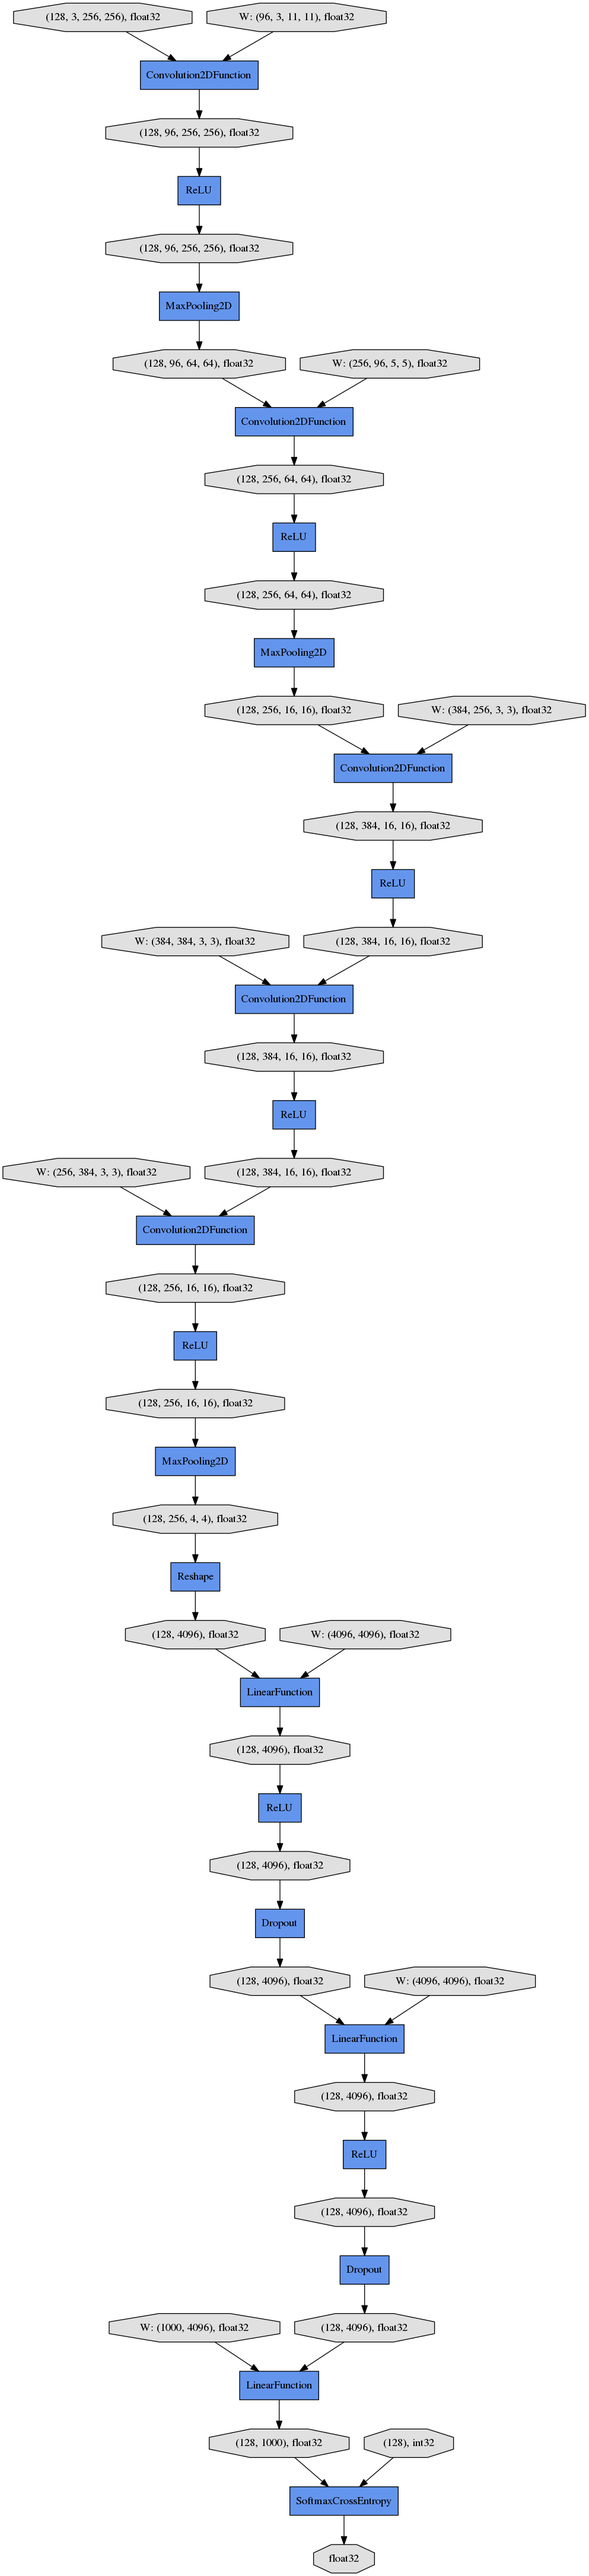
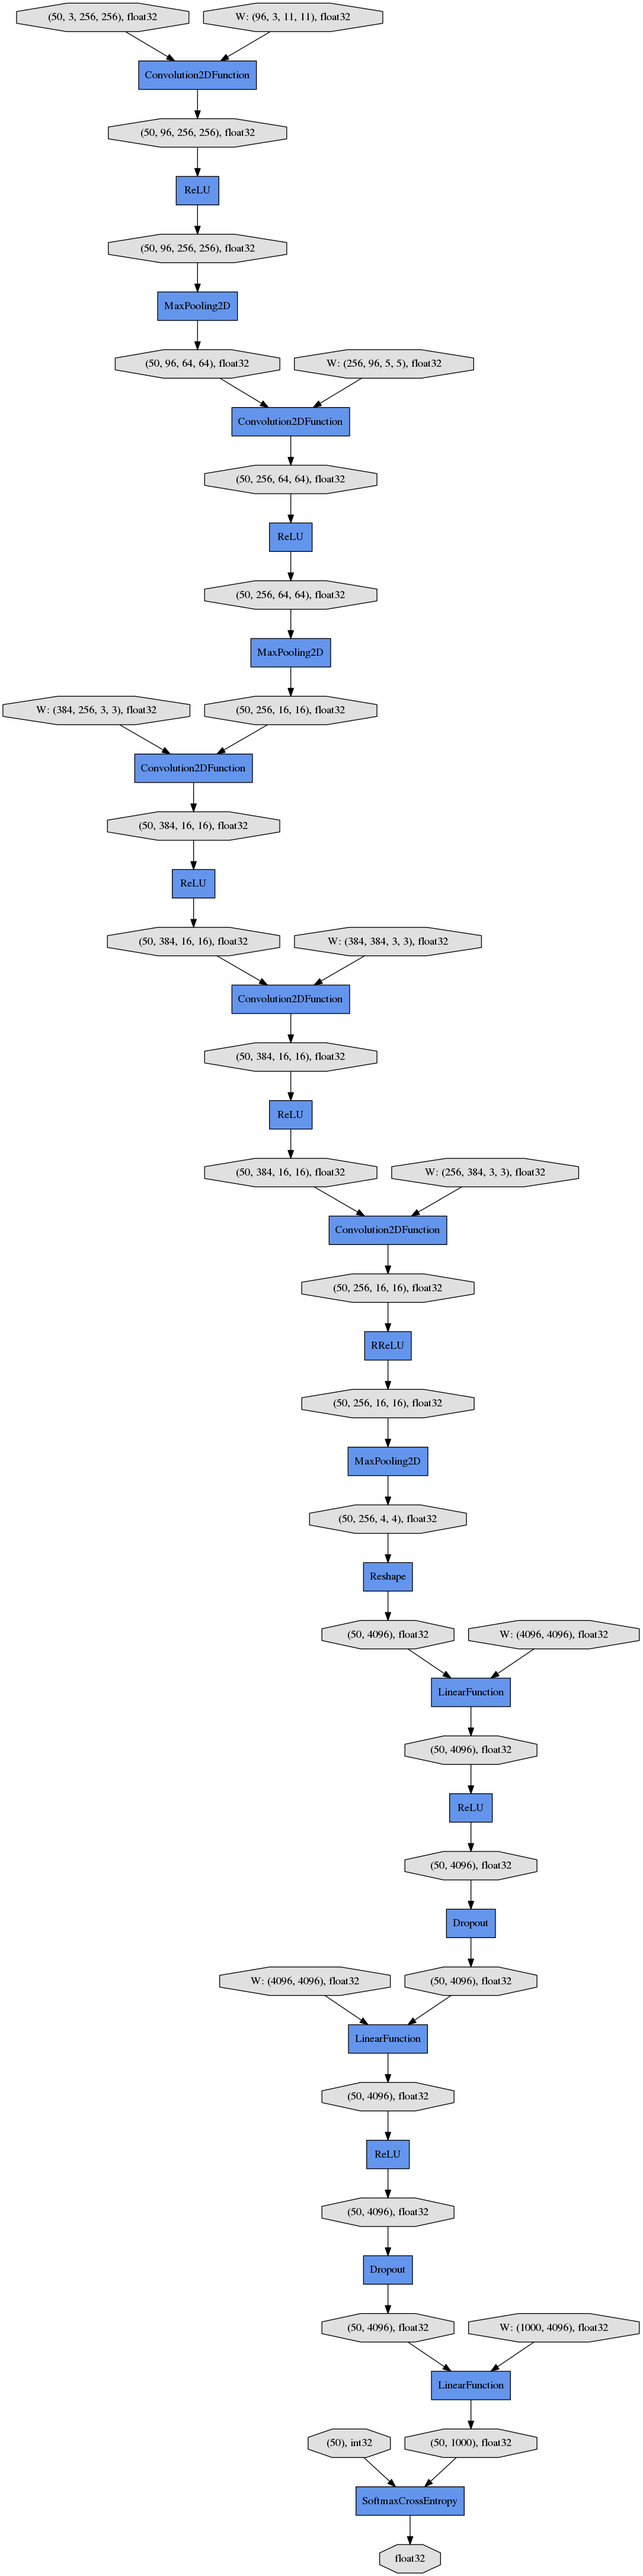
verification run results

Changed region(s): [[0.0, 0.0, 0.999, 1.0], [0.6556, 0.1244, 0.8117, 0.1555], [0.5307, 0.0, 0.6556, 0.0311]]

diff --git a/sequential/train_imagenet.py b/sequential/train_imagenet.py
@@ -23,7 +23,7 @@ matplotlib.use('Agg')
 # Global Variables
 numpy.set_printoptions(threshold=sys.maxsize)
 
-TRAIN = "/groups2/gaa50004/data/ILSVRC2012/train_256x256/1_image_train.txt"
+TRAIN = "/groups2/gaa50004/data/ILSVRC2012/train_256x256/50_image_train.txt"
 VAL = "/groups2/gaa50004/data/ILSVRC2012/val_256x256/val.txt"
 TRAINING_ROOT = "/groups2/gaa50004/data/ILSVRC2012/train_256x256/"
 VALIDATION_ROOT = "/groups2/gaa50004/data/ILSVRC2012/val_256x256"

diff --git a/spatial/train_imagenet.py b/spatial/train_imagenet.py
@@ -25,7 +25,7 @@ from models.resnet50 import ResNet50
 numpy.set_printoptions(threshold=sys.maxsize)
 
 #
-TRAIN = "/groups2/gaa50004/data/ILSVRC2012/train_256x256/1_image_train.txt"
+TRAIN = "/groups2/gaa50004/data/ILSVRC2012/train_256x256/50_image_train.txt"
 VAL = "/groups2/gaa50004/data/ILSVRC2012/val_256x256/val.txt"
 TRAINING_ROOT = "/groups2/gaa50004/data/ILSVRC2012/train_256x256/"
 VALIDATION_ROOT = "/groups2/gaa50004/data/ILSVRC2012/val_256x256"

diff --git a/sequential/models/alexnet.py b/sequential/models/alexnet.py
@@ -34,7 +34,7 @@ class AlexNet(chainer.Chain):
         h = F.max_pooling_2d(h, ksize=4, stride=4)
         h = F.relu(self.conv3(h))
         h = F.relu(self.conv4(h))
-        h = F.relu(self.conv5(h))
+        h = F.rrelu(self.conv5(h))
         h = F.max_pooling_2d(h, ksize=4, stride=4)
         with open('sequential_output.txt', 'w') as file:
             for b in range(h.shape[0]):
